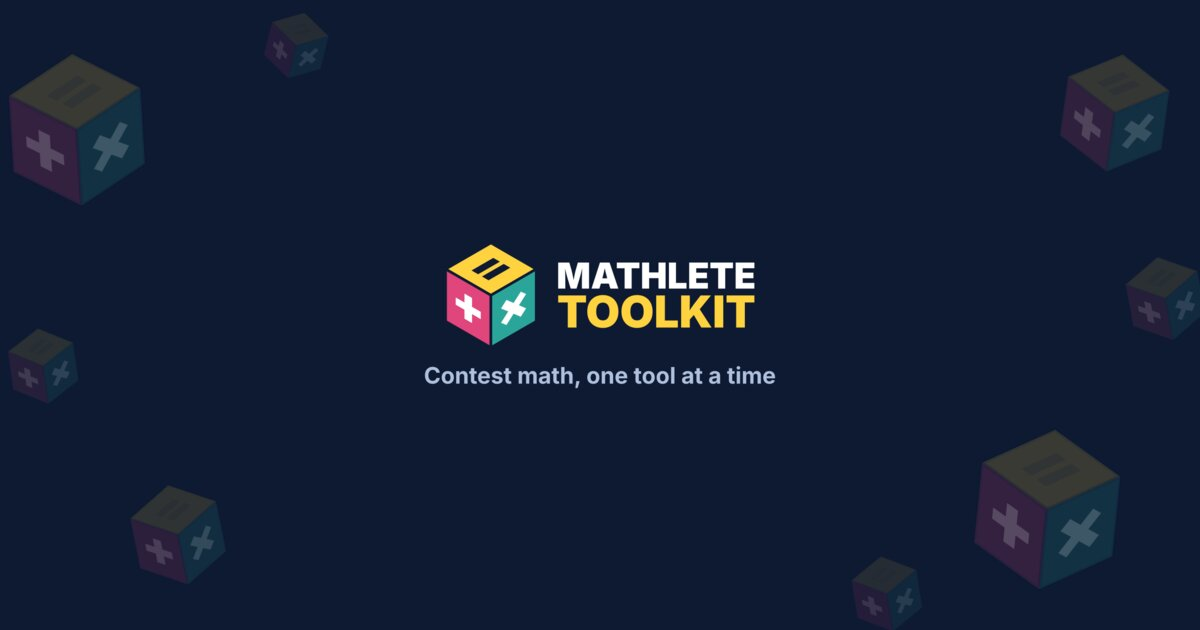
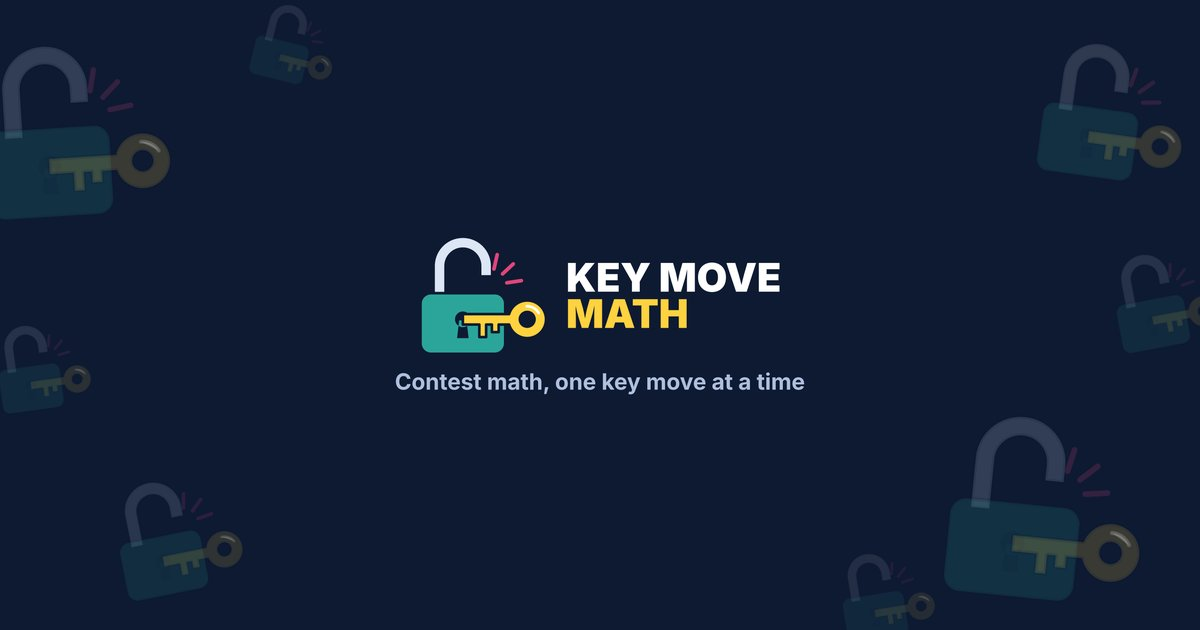
Rebrand site to Key Move Math, add stable QR pages t/1 to t/40

diff --git a/build.py b/build.py
@@ -1,5 +1,5 @@
 #!/usr/bin/env python3
-"""Builds the Mathlete Toolkit website into _site/.
+"""Builds the Key Move Math website into _site/.
 
   python3 build.py            use data/live.json for which lessons are public
   python3 build.py --check    ask YouTube which lessons are public now, update data/live.json
@@ -15,10 +15,10 @@ from datetime import date
 ROOT = os.path.dirname(os.path.abspath(__file__))
 OUT = os.path.join(ROOT, "_site")
 SITE = "https://jerryjianli-minibuddy.github.io/mathlete-toolkit"
-YT = "https://www.youtube.com/@MathleteToolkit"
+YT = "https://www.youtube.com/@keymovemath"
 YT_SUB = YT + "?sub_confirmation=1"
 FORM = "https://forms.gle/83Bkot9sWTyZDhpj8"
-NAME = "Mathlete Toolkit"
+NAME = "Key Move Math"
 UPLOADED = "2026-11-09"
 
 CONTESTS = {
@@ -58,7 +58,7 @@ def load():
             url = ("https://www.youtube.com/oembed?format=json&url=https://www.youtube.com/watch?v="
                    + l["video_id"])
             try:
-                with urllib.request.urlopen(urllib.request.Request(url, headers={"User-Agent": "mathlete-site"}), timeout=20) as r:
+                with urllib.request.urlopen(urllib.request.Request(url, headers={"User-Agent": "keymovemath-site"}), timeout=20) as r:
                     if r.status == 200:
                         found.add(l["video_id"])
             except urllib.error.HTTPError as err:
@@ -79,29 +79,26 @@ def load():
 
 # ---------- pieces ----------
 
-def cube(size=34, cls="cube"):
-    c, h = 0.866, 0.5
-    def p(pts): return " ".join(f"{x:.3f},{y:.3f}" for x, y in pts)
-    top = [(0, -1), (c, -h), (0, 0), (-c, -h)]
-    left = [(-c, -h), (0, 0), (0, 1), (-c, h)]
-    right = [(0, 0), (c, -h), (c, h), (0, 1)]
-    # '=' bars lying on the top face
-    u, v = (c, -h), (c, h)
-    bars = []
-    for off in (-0.13, 0.13):
-        cx, cy = 0 + v[0] * off * 0.9, -0.5 + v[1] * off * 0.9
-        L, W = 0.26, 0.06
-        q = [(cx - u[0] * L - v[0] * W, cy - u[1] * L - v[1] * W), (cx + u[0] * L - v[0] * W, cy + u[1] * L - v[1] * W),
-             (cx + u[0] * L + v[0] * W, cy + u[1] * L + v[1] * W), (cx - u[0] * L + v[0] * W, cy - u[1] * L + v[1] * W)]
-        bars.append(f'<polygon points="{p(q)}" fill="#0E1A32"/>')
-    return (f'<svg class="{cls}" width="{size}" height="{size}" viewBox="-1.08 -1.08 2.16 2.16" aria-hidden="true">'
-            f'<g stroke="#0E1A32" stroke-width="0.07" stroke-linejoin="round">'
-            f'<polygon points="{p(top)}" fill="#FFD23F"/><polygon points="{p(left)}" fill="#E0457B"/>'
-            f'<polygon points="{p(right)}" fill="#2BA59A"/></g>{"".join(bars)}'
-            f'<g transform="translate(-0.433 0.25) skewY(30)" stroke="#fff" stroke-width="0.12">'
-            f'<path d="M-0.2 0H0.2M0 -0.2V0.2"/></g>'
-            f'<g transform="translate(0.433 0.25) skewY(-30) rotate(45)" stroke="#fff" stroke-width="0.12">'
-            f'<path d="M-0.2 0H0.2M0 -0.2V0.2"/></g></svg>')
+def mark(size=34, cls="mark"):
+    """Key Move Math mark: teal padlock with its shackle sprung open, yellow key in the keyhole, pink sparks."""
+    N = "#0E1A32"
+    return (f'<svg class="{cls}" width="{size}" height="{size}" viewBox="-1.08 -1.37 2.5 2.5" aria-hidden="true">'
+            f'<g stroke="{N}" stroke-width="0.06" stroke-linejoin="round" stroke-linecap="round">'
+            # shackle: half ring, left leg down into the body, right leg lifted out
+            f'<path d="M-0.78 0.1V-0.68A0.56 0.56 0 0 1 0.34 -0.68V-0.48H0.11V-0.68A0.33 0.33 0 0 0 -0.55 -0.68V0.1Z" fill="#DCE6F5"/>'
+            f'<rect x="-1.03" y="-0.16" width="1.62" height="1.16" rx="0.2" fill="#2BA59A"/>'
+            f'</g>'
+            # keyhole
+            f'<circle cx="-0.22" cy="0.34" r="0.15" fill="{N}"/>'
+            f'<path d="M-0.29 0.36H-0.15L-0.11 0.7H-0.33Z" fill="{N}"/>'
+            # key: shaft into the keyhole from the right, two teeth, round bow with a hole
+            f'<path d="M-0.22 0.24H0.6642A0.36 0.36 0 1 1 0.6642 0.44H0.465V0.5848H0.335V0.44H0.225V0.68H0.095V0.44H-0.22Z'
+            f'M1.15 0.34A0.14 0.14 0 1 0 0.87 0.34A0.14 0.14 0 1 0 1.15 0.34Z" fill="#FFD23F" fill-rule="evenodd"'
+            f' stroke="{N}" stroke-width="0.06" stroke-linejoin="round"/>'
+            f'<path d="M1.2294 0.2201A0.25 0.25 0 0 0 1.0027 0.0901" fill="none" stroke="#fff" stroke-width="0.05" stroke-linecap="round"/>'
+            # unlock sparks
+            f'<path d="M0.621 -0.358L0.898 -0.4M0.539 -0.528L0.744 -0.719M0.375 -0.622L0.436 -0.895"'
+            f' stroke="#E0457B" stroke-width="0.07" stroke-linecap="round"/></svg>')
 
 
 YT_ICON = ('<svg width="20" height="14" viewBox="0 0 20 14" aria-hidden="true"><rect width="20" height="14" rx="4" fill="#FF0033"/>'
@@ -148,7 +145,7 @@ def nav(root, active=""):
         return f'<a href="{root}{href}"{cur}>{label}</a>'
     return f"""<header class="top">
  <div class="wrap top-in">
-  <a class="brand" href="{root}" aria-label="{NAME} home">{cube(34)}<span><b>MATHLETE</b> <i>TOOLKIT</i></span></a>
+  <a class="brand" href="{root}" aria-label="{NAME} home">{mark(34)}<span><b>KEY MOVE</b> <i>MATH</i></span></a>
   <button class="menu" aria-expanded="false" aria-controls="nav" aria-label="Menu"><span></span><span></span><span></span></button>
   <nav id="nav">
    {a('lessons/', 'Lessons', 'lessons')}
@@ -170,7 +167,7 @@ def foot(root):
 <footer class="foot">
  <div class="wrap foot-grid">
   <div>
-   <a class="brand brand-foot" href="{root}">{cube(30)}<span><b>MATHLETE</b> <i>TOOLKIT</i></span></a>
+   <a class="brand brand-foot" href="{root}">{mark(30)}<span><b>KEY MOVE</b> <i>MATH</i></span></a>
    <p>Competition math, one tool at a time. Free video lessons for grades 1 to 12.</p>
    <a class="btn btn-yt" href="{YT_SUB}" rel="noopener">{YT_ICON}<span>Subscribe on YouTube</span></a>
   </div>
@@ -305,7 +302,7 @@ def page_home(lessons):
 
 <section class="sec">
  <div class="wrap">
-  <div class="sec-head"><h2>Grade 5 toolkit</h2><a class="more" href="grade-5/">See all {len(lessons)} &rarr;</a></div>
+  <div class="sec-head"><h2>Grade 5 tools</h2><a class="more" href="grade-5/">See all {len(lessons)} &rarr;</a></div>
   {grid(first, root)}
  </div>
 </section>
@@ -342,7 +339,7 @@ def page_lessons(lessons):
     fam_opts = "".join(f'<option value="{e(f)}">{e(f)}</option>' for f in fams)
     n_live = sum(l["live"] for l in lessons)
     body = head(f"All Lessons | {NAME}",
-                "Every Mathlete Toolkit lesson in one place. Filter by contest (Math Kangaroo, Noetic, MATHCOUNTS) or topic. Free competition math videos.",
+                "Every Key Move Math lesson in one place. Filter by contest (Math Kangaroo, Noetic, MATHCOUNTS) or topic. Free competition math videos.",
                 "lessons/", root)
     body += nav(root, "lessons")
     body += f"""<section class="page-head">
@@ -497,7 +494,7 @@ def page_tests(lessons):
 def page_about(lessons):
     root = "../"
     body = head(f"About | {NAME}",
-                "Mathlete Toolkit teaches competition math as a set of named tools, with free video lessons and mock tests for grades 1 to 12.",
+                "Key Move Math teaches competition math as a set of named tools, with free video lessons and mock tests for grades 1 to 12.",
                 "about/", root)
     body += nav(root, "about")
     body += f"""<section class="page-head">
@@ -518,7 +515,7 @@ def page_about(lessons):
    <li>A last problem to pause and try alone</li>
   </ul>
   <h2>Who it is for</h2>
-  <p>Students getting ready for Math Kangaroo, the Noetic Math Contest, MATHCOUNTS, AMC 8, 10 and 12, and math olympiads. The Grade 5 toolkit is out now. Other grades follow.</p>
+  <p>Students getting ready for Math Kangaroo, the Noetic Math Contest, MATHCOUNTS, AMC 8, 10 and 12, and math olympiads. The Grade 5 tools are out now. Other grades follow.</p>
   <h2>Our problems</h2>
   <p>Every problem in our videos and tests is written by us and checked by computer. We study past contests to learn which tools come up and how hard they get, but we never copy their problems.</p>
   <p class="note">{NAME} is an independent practice channel. It is not affiliated with or endorsed by Math Kangaroo, Noetic Learning, MATHCOUNTS, the MAA (AMC) or any math olympiad.</p>
@@ -541,6 +538,32 @@ def page_404():
     write("404.html", body)
 
 
+def page_qr(l):
+    """Stable short link for QR codes in tests and videos: t/<tool number>/ sends the visitor to the video
+    once YouTube has it public, and to the lesson page on this site until then (the hourly rebuild flips it)."""
+    n = int(l["tool_num"])
+    lesson_url = f"{SITE}/lessons/{l['slug']}/"
+    target = f"https://youtu.be/{l['video_id']}" if l.get("video_id") and l["live"] else lesson_url
+    t = e(target)
+    write(f"t/{n}/index.html", f"""<!doctype html>
+<html lang="en">
+<head>
+<meta charset="utf-8">
+<meta name="viewport" content="width=device-width, initial-scale=1">
+<title>Tool #{n}: {e(l['tool'])} | {NAME}</title>
+<meta name="robots" content="noindex">
+<link rel="canonical" href="{e(lesson_url)}">
+<meta http-equiv="refresh" content="0; url={t}">
+<script>location.replace({json.dumps(target)});</script>
+</head>
+<body style="font-family:system-ui,sans-serif;padding:24px">
+<p>Opening Tool #{n}, {e(l['tool'])}&hellip;</p>
+<p><a href="{t}">Tap here if it does not open.</a></p>
+</body>
+</html>
+""")
+
+
 def extras(lessons, urls):
     today = date.today().isoformat()
     sm = ['<?xml version="1.0" encoding="UTF-8"?>', '<urlset xmlns="http://www.sitemaps.org/schemas/sitemap/0.9">']
@@ -549,7 +572,7 @@ def extras(lessons, urls):
     sm.append("</urlset>")
     write("sitemap.xml", "\n".join(sm) + "\n")
     write("robots.txt", f"User-agent: *\nAllow: /\nSitemap: {SITE}/sitemap.xml\n")
-    write("assets/img/favicon.svg", cube(64))
+    write("assets/img/favicon.svg", mark(64))
     write(".nojekyll", "")
 
 
@@ -563,7 +586,7 @@ def main():
     for l in lessons:
         page_lesson(l, lessons)
     urls = ["", "lessons/", "grade-5/", "mock-tests/", "about/"]
-    page_group("grade-5", f"Grade 5 Competition Math Lessons | {NAME}", "Grade 5 toolkit",
+    page_group("grade-5", f"Grade 5 Competition Math Lessons | {NAME}", "Grade 5 tools",
                f"{len(lessons)} tools for grade 5 contests, in the order we teach them. Start at Tool #1.", lessons,
                "Free Grade 5 competition math lessons: one tool per video, from shaded area to round-trip speed.")
     for k, C in CONTESTS.items():
@@ -577,6 +600,8 @@ def main():
     page_tests(lessons)
     page_about(lessons)
     page_404()
+    for l in lessons:
+        page_qr(l)
     urls += [f"lessons/{l['slug']}/" for l in lessons if l["live"]]
     extras(lessons, urls)
     print(f"built {OUT}: {sum(l['live'] for l in lessons)} of {len(lessons)} lessons live")

diff --git a/README.md b/README.md
@@ -1,10 +1,11 @@
-# Mathlete Toolkit website
+# Key Move Math website
 
-Static site for the Mathlete Toolkit YouTube channel, hosted free on GitHub Pages.
+Static site for the Key Move Math YouTube channel (https://www.youtube.com/@keymovemath), hosted free on GitHub Pages. The repo keeps its old name, so the site lives at https://jerryjianli-minibuddy.github.io/mathlete-toolkit/.
 
 - `data/lessons.json`: every lesson (tool, hook, problem, trap, rule, contests, YouTube id).
 - `assets/covers/`: lesson covers (`<slug>.webp`, `<slug>-lg.webp`, `<slug>.jpg`).
 - `build.py`: writes the site to `_site/`. `--check` asks YouTube which lessons are public.
+- `t/<n>/`: stable QR links (one per lesson, n = tool number) for tests and videos. Each sends the visitor to the lesson's YouTube video once it is public, and to its lesson page on this site until then.
 - `.github/workflows/deploy.yml`: rebuilds and deploys on every push and every hour, so scheduled lessons show up on their release day.
 
 Preview locally: `python3 build.py && python3 -m http.server -d _site`.
